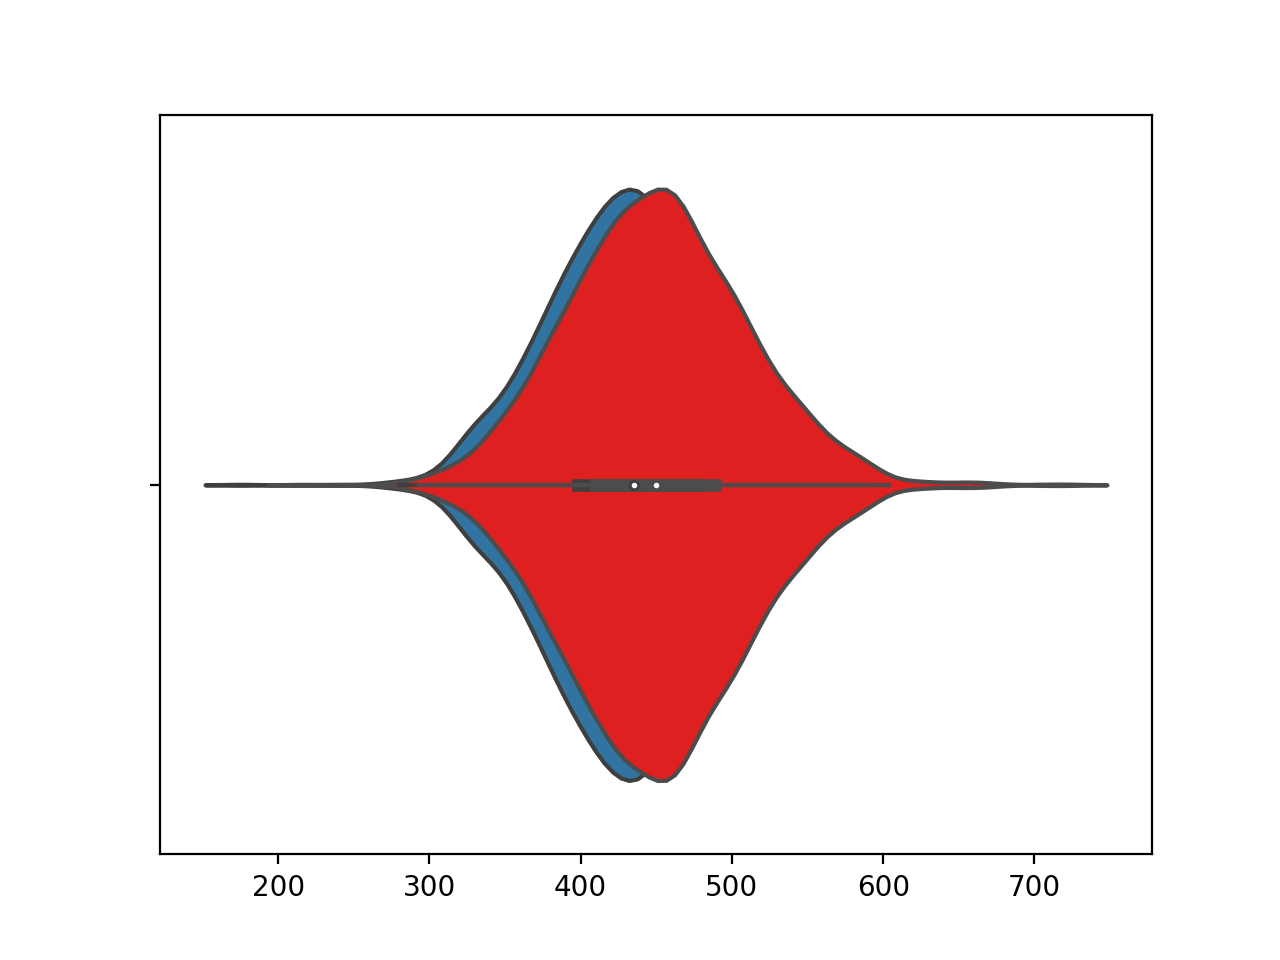
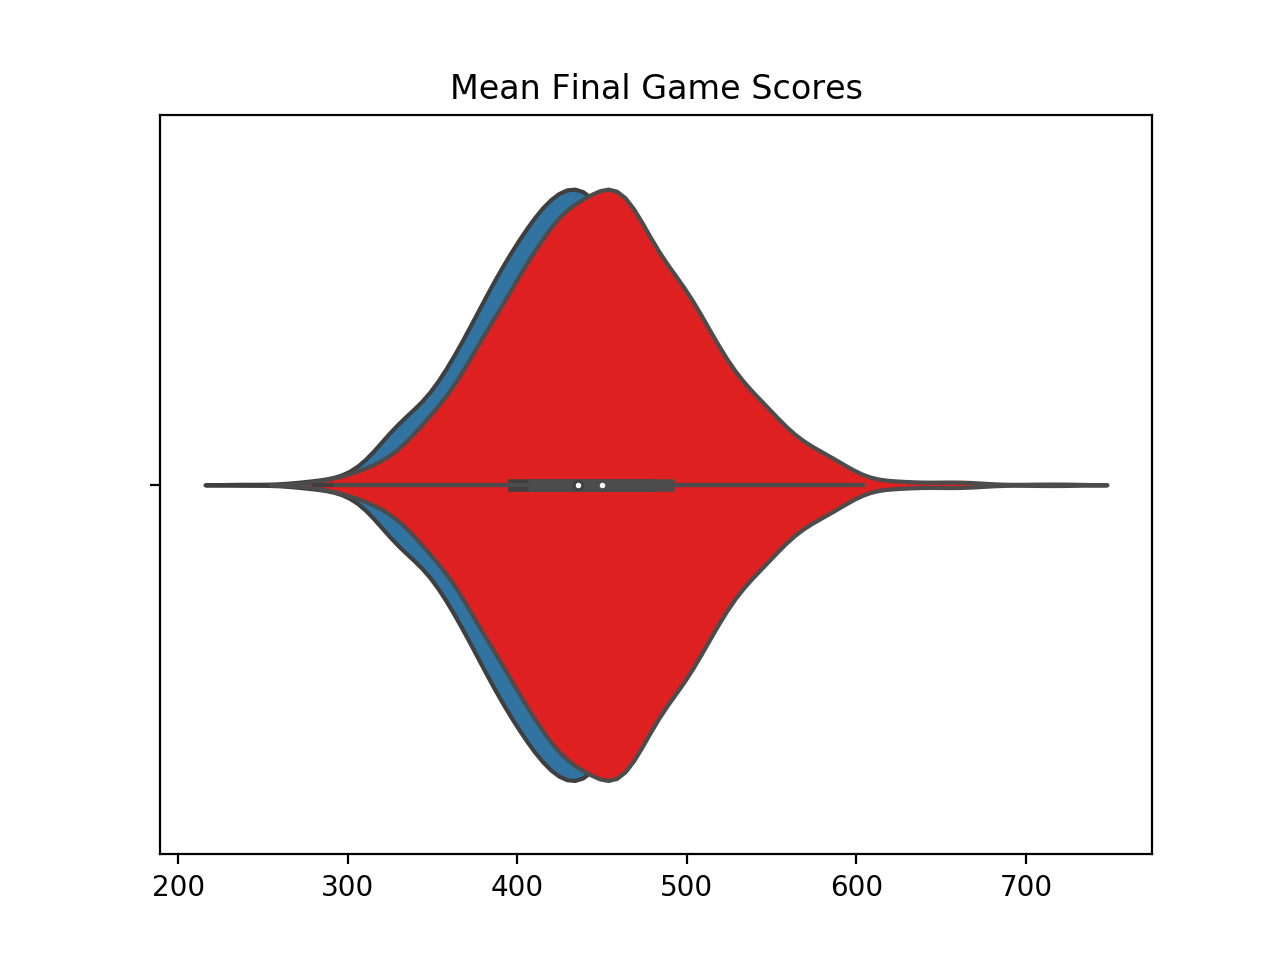
rem l

diff --git a/graphmaker.py b/graphmaker.py
@@ -32,12 +32,13 @@ g2s.remove(min(g2s))
 # plt.show()
 import seaborn as sns
 # sns.set(style="whitegrid")
-# ax2 = sns.violinplot(x=g2s)
-# ax = sns.violinplot(x=g1s, color='r')
+ax2 = sns.violinplot(x=g2s)
+ax = sns.violinplot(x=g1s, color='r')
 
-plt.scatter(g1s, g2s, s=1)
-plt.xlabel("Player 1")
-plt.ylabel("Player 2")
+plt.title("Mean Final Game Scores")
+# plt.scatter(g1s, g2s, s=1)
+# plt.xlabel("Player 1")
+# plt.ylabel("Player 2")
 
 # ax = sns.violinplot(x=list(map(sum, zip(g1s, g2s))))
 # ax = sns.violinplot(t)
